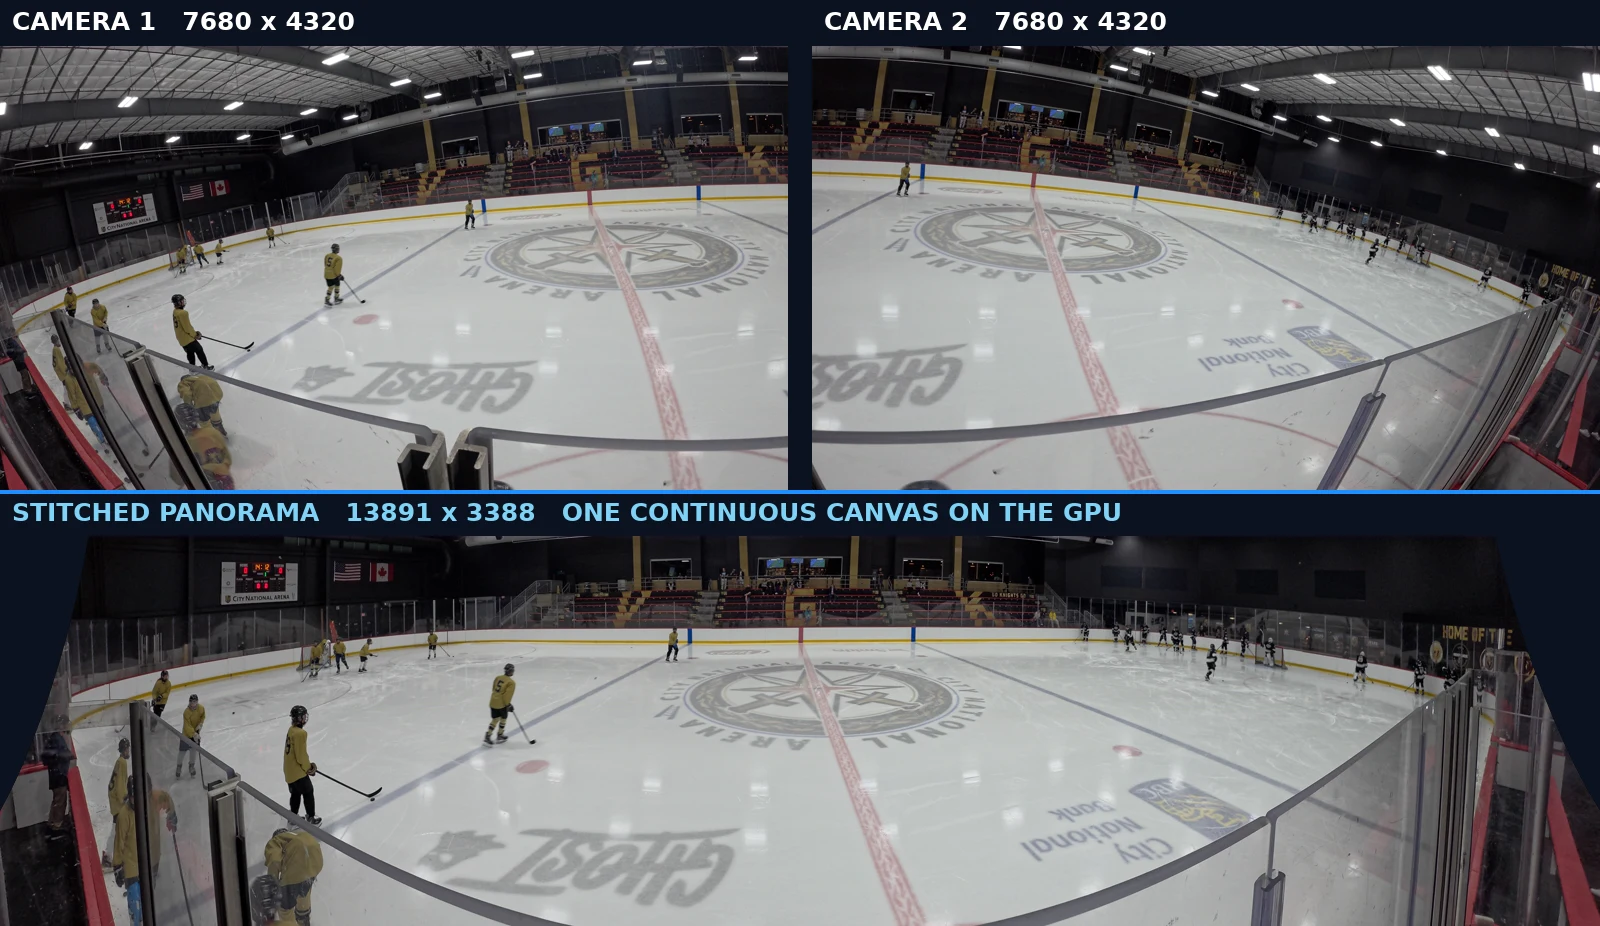
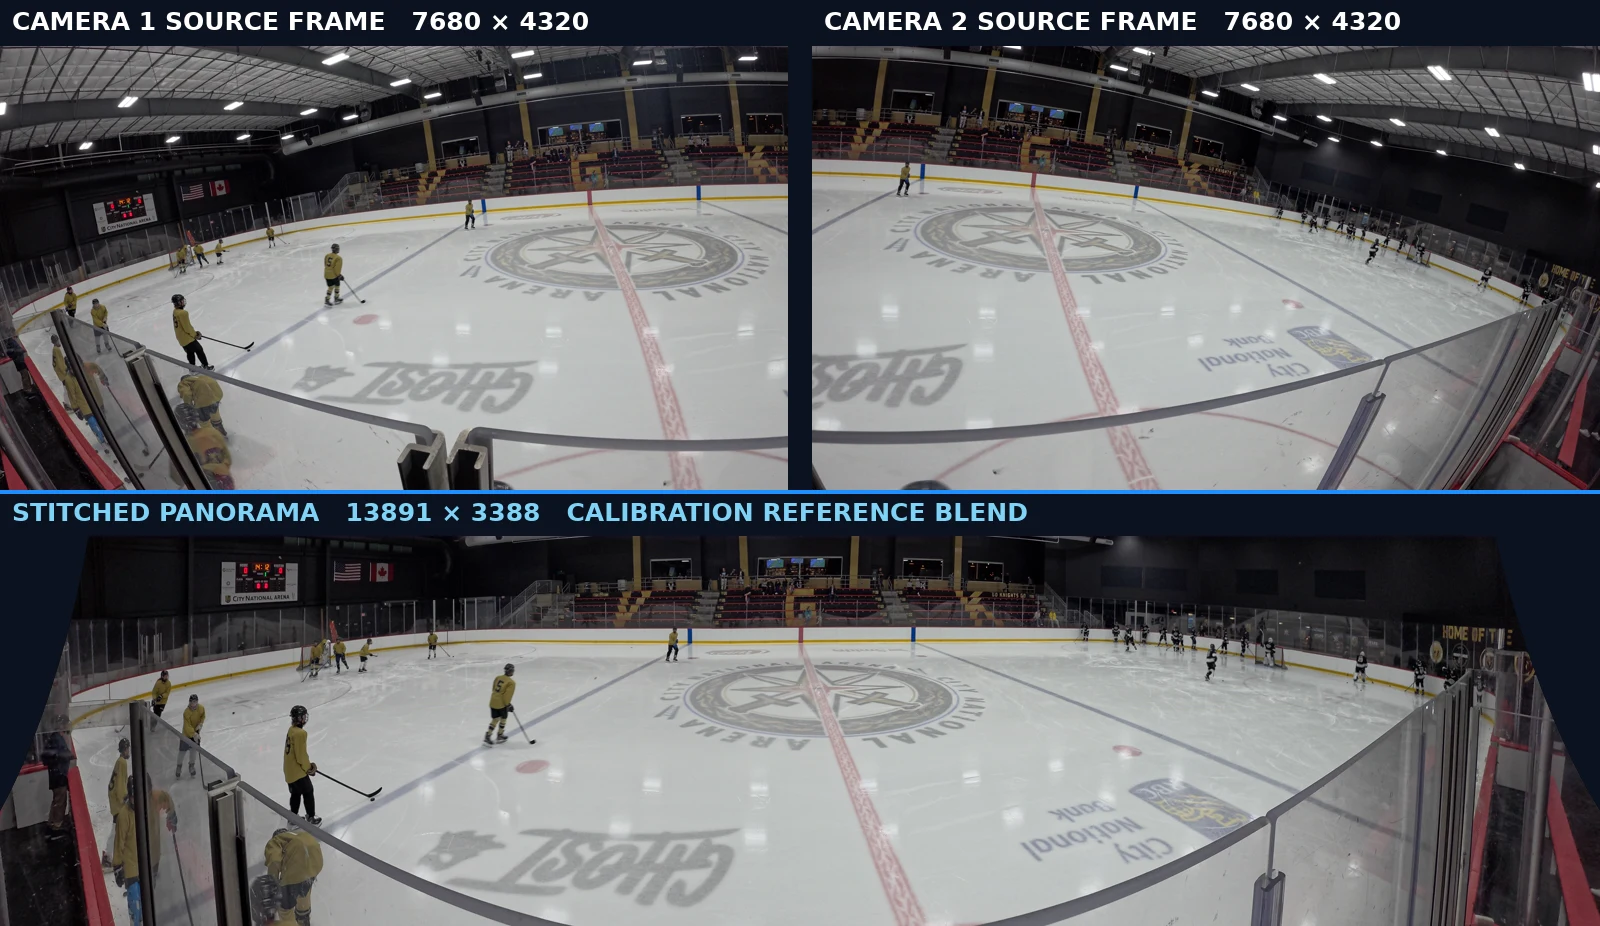
docs(readme): correct provenance claims and rework gallery prose
The watermark statement was false. The mark landed in 2091b996 on 2026-09-27 and
most sources predate it: auto-follow-cam.webp (render 2026-09-09) has none,
two-cameras-one-panorama.webp cannot have one because calibration artifacts are
not on any watermarked path, and in four-rinks.webp only the blackhawks-p1 tile
(render 2026-09-28) carries it. Replace the blanket claim with a per-asset
account, and say it in the README too, since current builds always burn it in
and these images show output without it.

panorama.tif is the enblend calibration reference, not hm-cupano output.
AGENTS.md keeps it specifically as the manual alignment check and contrasts it
with the real GPU path. Re-render the composite so the label reads CALIBRATION
REFERENCE BLEND rather than ON THE GPU, and drop the GPU claim from the alt text
and caption. File is 206 KB after the re-render.

four-rinks.webp draws on four renders made between 2026-09-09 and 2026-09-28, so
"the same build" was wrong. Say "the same pipeline" and record render dates per
tile.

Move "See it in action" above Download, so a reader sees the output before the
installer table. Drop the three bold section labels per the AGENTS.md writing
rule, narrow "unedited program output" to "no cuts" since the clip is trimmed
and rescaled, and rewrite alt text to describe each image instead of restating
its caption.

Also: left.png/right.png are Hugin project inputs, still barrel-distorted rather
[…]

Changed region(s): [[0.2812, 0.5443, 0.7188, 0.5745], [0.5938, 0.0, 0.875, 0.0302], [0.0938, 0.0, 0.375, 0.0302]]

diff --git a/docs/assets/screenshots/README.md b/docs/assets/screenshots/README.md
@@ -1,4 +1,4 @@
-# Website UI screenshots
+# Screenshot and animation provenance
 
 Captured from the running `hstream-ui` on 2026-09-09, using `vegas-kings-1`.
 The source checkout at capture start was `06d72120`. The previews show second-period game
@@ -36,6 +36,8 @@ To refresh these assets:
 These are window captures of the real GPU previews. Image processing is limited
 to cropping the runtime log and WebP compression. Check `docs/index.html` at
 desktop and mobile widths, including every full-size image link, after updating.
+`vegas-kings-program.webp` is also embedded in the repository `README.md`, so check
+that file too when re-capturing it.
 
 ## Camera experiments
 
@@ -62,7 +64,8 @@ recording and corresponding media time binding.
 ## README assets
 
 Assembled on 2026-09-30 from source checkout `0d55128c` on an NVIDIA RTX 5090.
-These four files are embedded in the repository [README](../../../README.md).
+These four files, plus the existing `vegas-kings-program.webp` documented above,
+are embedded in the repository [README](../../../README.md).
 Every pixel of video in them is real pipeline output. Processing was limited to
 trimming, scaling, compositing onto a solid background, adding text labels, and
 WebP compression. No frame was retouched, and no detection box, overlay, or UI
@@ -72,17 +75,27 @@ control was drawn or fabricated.
 | --- | --- | --- | --- |
 | `auto-follow-cam.webp` | 960 × 540 | 2.4 MB | Animated, 98 frames at 12 fps, infinite loop |
 | `whole-rink-live.webp` | 1200 × 306 | 0.8 MB | Animated, 84 frames at 12 fps, infinite loop |
-| `two-cameras-one-panorama.webp` | 1600 × 926 | 203 KB | Still composite |
+| `two-cameras-one-panorama.webp` | 1600 × 926 | 206 KB | Still composite |
 | `four-rinks.webp` | 1600 × 962 | 176 KB | Still composite |
 
 Animation is WebP rather than GIF on purpose. The same eight-second follow-cam
-clip is 2.4 MB as animated WebP and 25 MB as a 256-colour GIF, because a
+clip is 2.4 MB as animated WebP and 25 MB as a 256-color GIF, because a
 full-frame pan over ice texture defeats GIF interframe compression. GitHub
 serves committed `.webp` as `image/webp`, and a browser without animated-WebP
 support falls back to the first frame rather than failing.
 
-All four show the burned-in "SportsAI HockeyMON" watermark described in
-[the watermark notes](../../watermark.md). It cannot be disabled.
+Watermarking differs per asset, because the "SportsAI HockeyMON" mark landed in
+`2091b996` on 2026-09-27 and most of these sources predate it. `auto-follow-cam.webp`
+(render dated 2026-09-09) has no mark. In `four-rinks.webp` only the `blackhawks-p1`
+tile does; its render is dated 2026-09-28, while `vegas-kings-1` (09-09),
+`sharks-14-p1` (09-17) and `tv-14-1-p1` (09-22) predate the commit.
+`two-cameras-one-panorama.webp` cannot carry it: per
+[the watermark notes](../../watermark.md) the mark is drawn in `playcropper` Program
+output, the stitched GL preview, and the archive encoder input, and calibration
+artifacts are on none of those paths. Only `whole-rink-live.webp`, captured
+2026-09-30, went through a watermarking build; there the mark falls on the dark
+boards and is not visible at 1200 px. Current builds always burn it in and it
+cannot be disabled.
 
 ### `auto-follow-cam.webp`
 
@@ -94,7 +107,7 @@ that carries the virtual camera from one end zone, through center ice, to the
 attacking end. The clip is continuous and unedited; the camera motion is the
 pipeline's, not a post-production pan.
 
-```
+```sh
 ffmpeg -ss 2458.6 -i vegas-kings-1-tracking_output-with-audio-1.mp4 -t 8.2 \
   -vf "fps=12,scale=960:-1:flags=lanczos" -c:v libx264 -crf 10 -an hero_src.mp4
 ffmpeg -i hero_src.mp4 -c:v libwebp_anim -q:v 62 -compression_level 6 -loop 0 \
@@ -110,7 +123,7 @@ recordings symlinked, `HM_GAME_DIR` pointed at the copy), with detection,
 tracking, play tracking, cropping, and audio disabled so only the stitcher and
 the stitched-archive sink were active.
 
-```
+```sh
 HM_GAME_DIR=<sandbox parent> ./run.sh --game-id=vegas-kings-1 \
   --enable-sinks=ENCODE_STITCHED_FILE \
   --options=stitching.control_point_resolution=native \
@@ -135,31 +148,58 @@ they are what the per-game crop setting exists to remove.
 ### `two-cameras-one-panorama.webp`
 
 Composited from three artifacts written by this game's stitching calibration on
-2026-09-12: `left.png` and `right.png` (each 7680 × 4320, the two projected
-camera views) above `panorama.tif` (13891 × 3388, the stitched result). The same
-center-ice logo and painted "GHOST" wordmark appear in both camera views, which
-is the overlap the calibration solves. Camera views were scaled to 788 × 444 and
-the panorama to 1600 × 390 on a solid `#0B1220` canvas, with DejaVu Sans Bold
-labels, then saved at WebP quality 88. The three images are unmodified apart
-from that scaling.
+2026-09-12: `left.png` and `right.png` (each 7680 × 4320, the two source camera
+frames the calibration feeds into its Hugin project — still barrel-distorted, not
+yet reprojected) above `panorama.tif` (13891 × 3388). The same center-ice logo and
+painted "GHOST" wordmark appear in both camera views, which is the overlap the
+calibration solves.
+
+`panorama.tif` is the **enblend calibration reference blend, not hm-cupano GPU
+output**. Per `AGENTS.md`, it is deliberately retained as the manual visual sanity
+check for a calibration, and enblend's blend quality is kept high precisely so it
+does not show seams the real hm-cupano path would not. It is representative of the
+live result but is not a frame the runtime produced, which is why the label in the
+image reads "CALIBRATION REFERENCE BLEND". For a still from the live GPU stitcher,
+use a frame of `whole-rink-live.webp` instead.
+
+Camera views were scaled to 788 × 444 and the panorama to 1600 × 390 onto a solid
+`#0B1220` canvas at WebP quality 88. The three images are unmodified apart from
+that scaling.
+
+```sh
+ffmpeg -f lavfi -i color=c=0x0B1220:s=1600x926 \
+  -i left.png -i right.png -i panorama.tif \
+  -filter_complex "[1:v]scale=788:444[l];[2:v]scale=788:444[r];[3:v]scale=1600:390[p];\
+[0:v][l]overlay=0:46[a];[a][r]overlay=812:46[b];[b][p]overlay=0:536[c];\
+[c]drawbox=x=0:y=490:w=1600:h=4:color=0x1E90FF@1.0:t=fill[d];\
+[d]drawtext=fontfile=<DejaVuSans-Bold.ttf>:text='CAMERA 1 SOURCE FRAME   7680 × 4320':x=12:y=12:fontsize=25:fontcolor=white,\
+drawtext=fontfile=<DejaVuSans-Bold.ttf>:text='CAMERA 2 SOURCE FRAME   7680 × 4320':x=824:y=12:fontsize=25:fontcolor=white,\
+drawtext=fontfile=<DejaVuSans-Bold.ttf>:text='STITCHED PANORAMA   13891 × 3388   CALIBRATION REFERENCE BLEND':x=12:y=503:fontsize=25:fontcolor=0x7FD3F7[out]" \
+  -map "[out]" -frames:v 1 -c:v libwebp -quality 88 two-cameras-one-panorama.webp
+```
 
 ### `four-rinks.webp`
 
-One frame from each of four Program renders, showing four venues, lighting
-setups, and camera placements handled by the same build with per-game
-calibration:
+One frame from each of four Program renders, showing four venues, lighting setups,
+and camera placements handled by the same pipeline with per-game calibration. The
+four renders were produced on different dates by different builds, so this is not
+evidence about a single build — the `blackhawks-p1` render postdates the watermark
+commit and the other three predate it:
 
-| Tile | Game | Source render | Frame time |
-| --- | --- | --- | --- |
-| Top left | `vegas-kings-1` | 7680 × 4320 tracking output | 1020 s |
-| Top right | `sharks-14-p1` | 3840 × 2160 4K Program output | 2100 s |
-| Bottom left | `blackhawks-p1` | 3840 × 2160 4K Program output | 1800 s |
-| Bottom right | `tv-14-1-p1` | 3840 × 2160 4K Program output | 3600 s |
+| Tile | Game | Source render | Render date | Frame time |
+| --- | --- | --- | --- | --- |
+| Top left | `vegas-kings-1` | 7680 × 4320 tracking output | 2026-09-09 | 1020 s |
+| Top right | `sharks-14-p1` | 3840 × 2160 4K Program output | 2026-09-17 | 2100 s |
+| Bottom left | `blackhawks-p1` | 3840 × 2160 4K Program output | 2026-09-28 | 1800 s |
+| Bottom right | `tv-14-1-p1` | 3840 × 2160 4K Program output | 2026-09-22 | 3600 s |
 
-Frames were chosen by inspecting contact sheets sampled across each render and
-picking live play; several evenly spaced timestamps landed on stoppages and
-bench huddles and were rejected. Each frame was scaled to 794 × 446 and placed
-in a 2 × 2 grid on a solid `#0B1220` canvas at WebP quality 88.
+Render dates are file modification times; the exact source checkout for each render
+was not recorded at the time. Frames were chosen by inspecting contact sheets sampled
+across each render and picking live play; several evenly spaced timestamps landed on
+stoppages and bench huddles and were rejected. Each frame was scaled to 794 × 446 and
+placed in a 2 × 2 grid on a solid `#0B1220` canvas at WebP quality 88, with the game
+id drawn above each tile in DejaVu Sans Bold at `#7FD3F7`, using the same
+`color` + `overlay` + `drawtext` construction as the two-camera composite above.
 
 ### Not captured
 

diff --git a/README.md b/README.md
@@ -17,10 +17,10 @@ for other rink, court, and field sports.
 [Installation guide](https://cjolivier01.github.io/HockeyMONStream/install.html) ·
 [Browse the source](src)
 
-![Program output from a youth game: the virtual camera pans across the rink to follow a rush from one end to the other](docs/assets/screenshots/auto-follow-cam.webp)
+![Looping clip of a hockey rink in which the view pans smoothly from one goal, across center ice, to the far goal, keeping the play in frame throughout](docs/assets/screenshots/auto-follow-cam.webp)
 
-*Unedited program output. The virtual camera follows the rush end to end; nobody is
-operating it.*
+*One continuous 8-second excerpt of program output, no cuts. The camera move is the
+pipeline's; nobody is operating it.*
 
 ## What it does
 
@@ -32,10 +32,12 @@ operating it.*
 4. Adds optional scoreboard/graphics and writes an archive or routes video to
    live RTMP/RTSP outputs.
 
-![Two overlapping 7680x4320 camera views above the single 13891x3388 panorama the GPU stitches them into](docs/assets/screenshots/two-cameras-one-panorama.webp)
+![Two fisheye camera views of the same rink, each covering one half and overlapping at center ice, above the single wide panorama they combine into, which shows both goals at once](docs/assets/screenshots/two-cameras-one-panorama.webp)
 
-*Step 2. Two fixed cameras overlap at center ice; calibration solves the overlap
-and the GPU blends them into one continuous canvas covering both goals.*
+*Both cameras see center ice and the painted "GHOST" wordmark; that shared region is
+what calibration solves for. The panorama here is the enblend reference blend written
+during calibration, which is how alignment gets checked — live frames take the
+hm-cupano GPU path instead.*
 
 The implementation is a DeepStream-style C++17 application (`hstream-cli`)
 with custom GStreamer, CUDA, and ONNX plugins for multi-camera synchronization,
@@ -60,6 +62,31 @@ hardware without a HockeyMONStream subscription fee. The repository has mixed
 file-level licensing; see [Licensing](#licensing) before modifying or
 redistributing it.
 
+## See it in action
+
+These are real pipeline output on real youth games, not mockups. Two of them
+composite several real frames into one image; the source render, frame time and
+exact processing for each is recorded in
+[the screenshot provenance notes](docs/assets/screenshots/README.md).
+
+The stitched panorama the tracker runs on, covering both goals and both benches
+in a single canvas:
+
+![Looping clip of a wide stitched panorama showing an entire ice sheet at once, with both goals and both team benches in frame and play moving near center ice](docs/assets/screenshots/whole-rink-live.webp)
+
+`hstream-ui` drives the pipeline, with live previews of the program, stitched and
+per-camera views next to runtime tracking controls:
+
+![HStream UI playing Vegas Kings footage with the program preview and live tracking controls](docs/assets/screenshots/vegas-kings-program.webp)
+
+Four venues, four camera placements, one pipeline with per-game calibration:
+
+![Four program-output frames in a two-by-two grid labelled vegas-kings-1, sharks-14-p1, blackhawks-p1 and tv-14-1-p1, each a different rink framed automatically by the same pipeline](docs/assets/screenshots/four-rinks.webp)
+
+Most of these come from renders made before the "SportsAI HockeyMON" watermark
+landed on 2026-09-27, so they show frames without it. Current builds always burn
+it in and it cannot be turned off; see [the watermark notes](docs/watermark.md).
+
 ## Download
 
 The [latest GitHub release](https://github.com/cjolivier01/HockeyMONStream/releases/latest)
@@ -76,27 +103,6 @@ with a private/self-signed publisher certificate, so Windows reports an unknown
 publisher unless that certificate is trusted. See the
 [installation guide](https://cjolivier01.github.io/HockeyMONStream/install.html)
 and [Windows WSL details](docs/windows-wsl-installer.md) before installing.
-
-## See it in action
-
-Every image below is a capture of real output from this pipeline on real youth
-games. Nothing is a mockup. Capture details and the exact commands are recorded
-in [the screenshot provenance notes](docs/assets/screenshots/README.md).
-
-**The stitched panorama, live.** Both cameras blended into one canvas, covering
-both goals and both benches at once. This is what the tracker sees.
-
-![Live stitched panorama of a full ice sheet, both goals and both benches visible in one continuous frame](docs/assets/screenshots/whole-rink-live.webp)
-
-**The desktop UI.** `hstream-ui` drives the pipeline, with live previews of the
-program, stitched, and per-camera views and runtime tracking controls.
-
-![HStream UI playing a game with the program preview and live tracking controls](docs/assets/screenshots/vegas-kings-program.webp)
-
-**Four rinks, one pipeline.** The same build with per-game calibration, across
-four different venues, lighting setups, and camera placements.
-
-![Program output from four different rinks, each automatically framed by the same pipeline](docs/assets/screenshots/four-rinks.webp)
 
 ## Licensing
 
